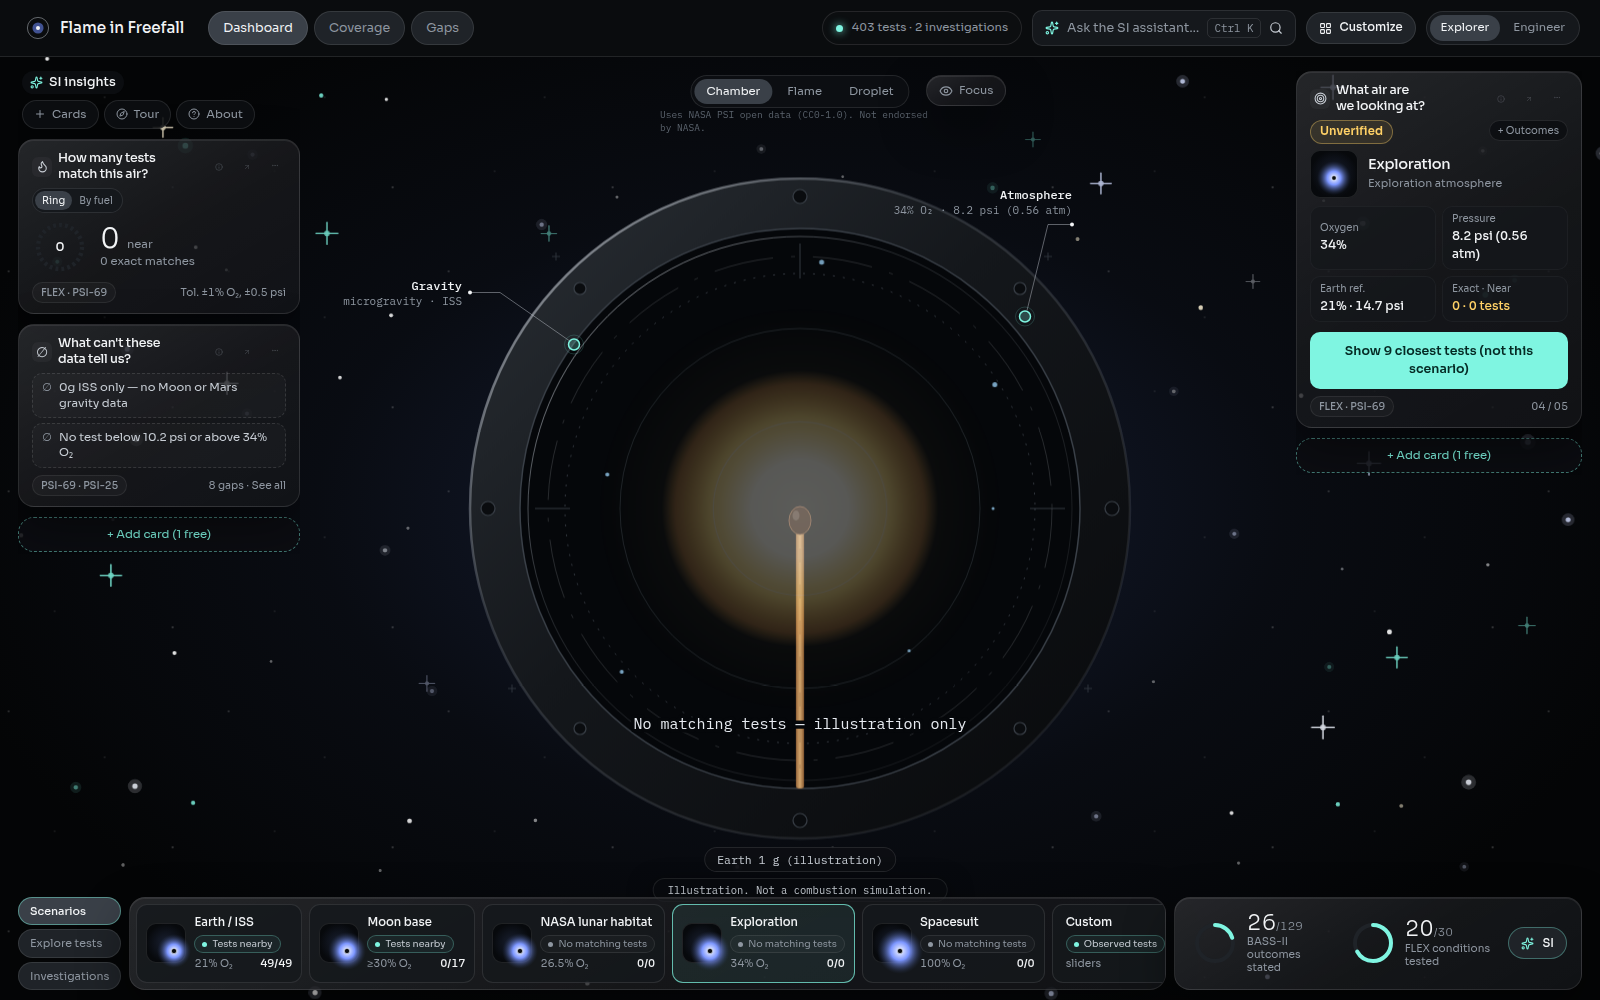
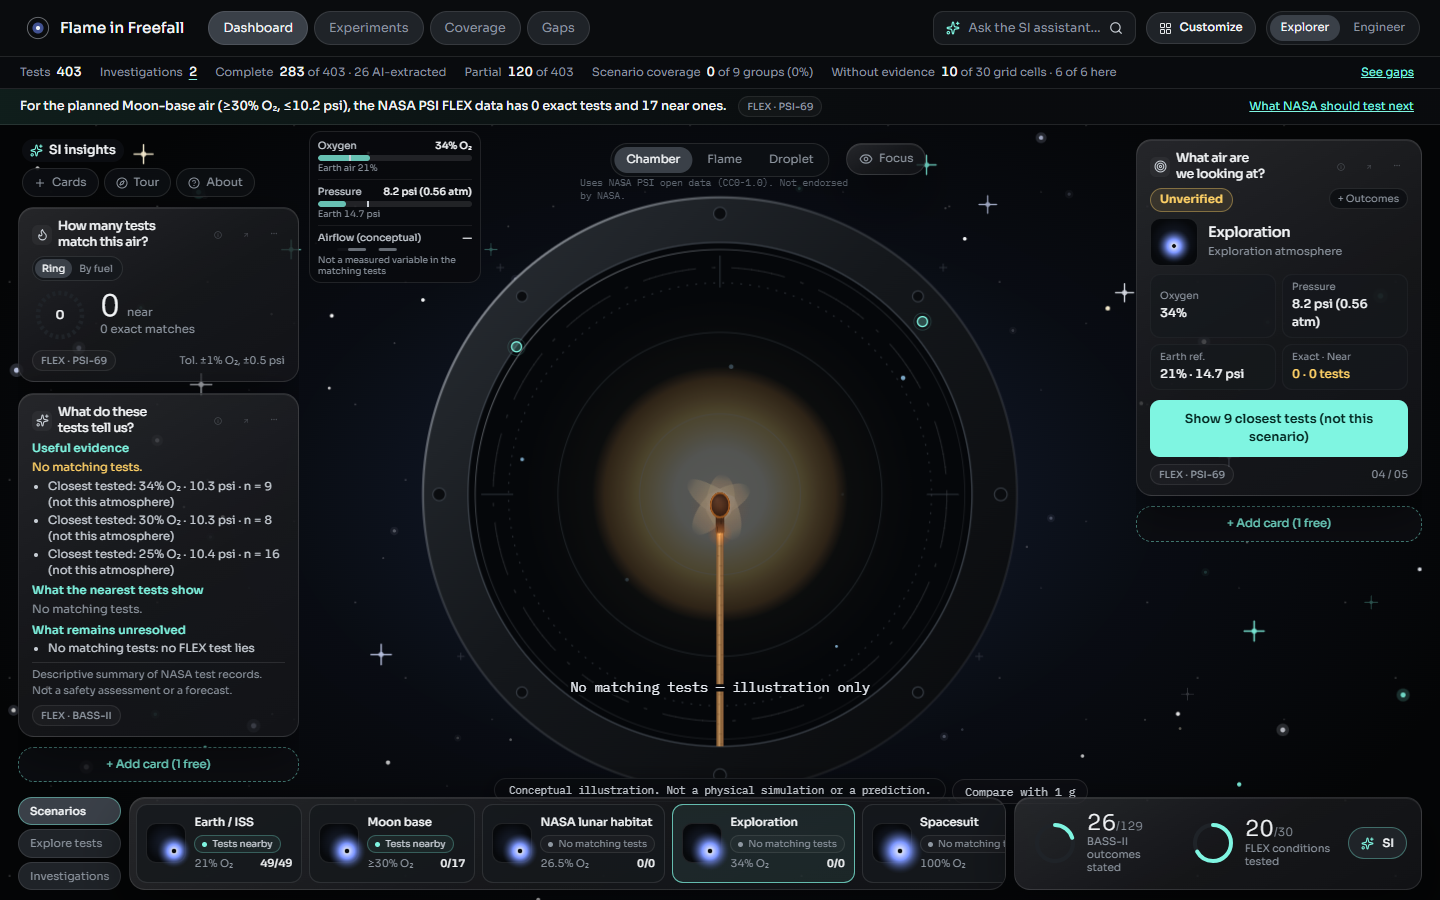
feat(scene): microgravity fire as a luminous sphere with short round-tipped lobes, not a star
- FireTongues: a soft sphere (core, mid, edge of flameLook) plus broad round-tipped lobes in two overlapping
  translucent layers (outer and inner zone), spread all around with small deterministic variations of length,
  width and angle; irregular flicker (different durations, phases and amplitudes; transform and opacity only).
- 1 g reference: a few lobes clustered upward (candle tear-drop), also round-tipped.
- Kept: burning, ember (fainter, 5 lobes), out and none; matchBurn logic; flameLook colours; screen blending;
  no SVG filters; reduced motion = fixed frame; paused when the page is hidden; fewer lobes on a phone.
- FireTongues tests updated to the new design (same properties) plus rounded tips, no upward bias, sphere.
- docs/screenshots/flame-*.png refreshed at 1440x900, and flame-*-390.png added at 390x844.

AI-assisted: yes

diff --git a/frontend/src/components/FlameArt.tsx b/frontend/src/components/FlameArt.tsx
@@ -105,45 +105,87 @@ export interface FireProps {
 }
 const HX = 800, HY = 490;                       // match head centre
 const rr = (i: number, k: number) => { const x = Math.sin(i * 127.1 + k * 311.7) * 43758.5453; return x - Math.floor(x); };
-interface Tongue { rot: number; len: number; w: number; dur: number; delay: number; amp: number }
-/** Microgravity: tongues spread all around the head (short, nearly radial, no tendency to rise). 1 g: clustered upward, longer. */
-export function fireTongues(n: number, oneG: boolean): Tongue[] {
+export type FireLayer = 'outer' | 'inner';
+interface Tongue { rot: number; len: number; w: number; dur: number; delay: number; amp: number; skew: number }
+/**
+ * Lobes of flame around the head. Microgravity: SHORT, BROAD, round-tipped lobes spread all around (no buoyancy, so no
+ * preferred direction), overlapping in an outer and an inner layer like the outer / inner zones of a flame, with small
+ * deterministic variations of length, width and angle so it never reads as a symmetric star. 1 g (reference): a few
+ * long lobes clustered upward, forming the classic candle tear-drop.
+ */
+export function fireTongues(n: number, oneG: boolean, layer: FireLayer = 'outer'): Tongue[] {
+  const k = layer === 'inner' ? 20 : 0;                     // different seeds per layer
+  const off = layer === 'inner' ? 180 / Math.max(1, n) : 0;  // inner lobes sit between the outer ones
   return Array.from({ length: n }, (_, i) => {
-    const rot = oneG ? -38 + (76 * i) / Math.max(1, n - 1) + (rr(i, 1) - 0.5) * 10 : (360 * i) / n + (rr(i, 1) - 0.5) * 24;
-    const len = oneG ? 95 + rr(i, 2) * 70 - Math.abs(rot) * 0.9 : 84 + rr(i, 2) * 60;
-    return { rot, len, w: oneG ? 20 + rr(i, 3) * 8 : 14 + rr(i, 3) * 8, dur: 0.8 + rr(i, 4) * 0.9, delay: -rr(i, 5) * 2, amp: 0.8 + rr(i, 6) * 0.5 };
+    const j = (a: number) => rr(i, a + k);
+    const rot = oneG
+      ? (layer === 'inner' ? -8 : -16) + ((layer === 'inner' ? 16 : 32) * i) / Math.max(1, n - 1) + (j(1) - 0.5) * 6
+      : (360 * i) / n + off + (j(1) - 0.5) * 34;
+    const len = oneG
+      ? (layer === 'inner' ? 70 + j(2) * 22 : 118 + j(2) * 34) - Math.abs(rot) * 0.8
+      : layer === 'inner' ? 62 + j(2) * 18 : 96 + j(2) * 28;     // just past the scene glow (r ≈ 95), never the old long spikes
+    const w = oneG ? (layer === 'inner' ? 15 + j(3) * 5 : 24 + j(3) * 8) : layer === 'inner' ? 27 + j(3) * 9 : 38 + j(3) * 14;
+    return {
+      rot, len, w,
+      dur: (layer === 'inner' ? 0.7 : 1.05) + j(4) * (layer === 'inner' ? 0.8 : 1.3),
+      delay: -j(5) * 3, amp: 0.55 + j(6) * 0.9, skew: (j(7) - 0.5) * w * 0.5,
+    };
   });
 }
-const tonguePath = (L: number, w: number, s: number) => `M${-w} 0 C${-w * 1.3} ${-L * 0.4} ${-w * 0.45 + s} ${-L * 0.72} ${s} ${-L} C${w * 0.45 + s} ${-L * 0.72} ${w * 1.3} ${-L * 0.4} ${w} 0 Z`;
+/** Lobe with a ROUNDED tip (horizontal tangent at the top) and a rounded base. `tip` = how broad the dome is (0.2 candle, 0.6 round). */
+export const lobePath = (L: number, w: number, s: number, tip: number) =>
+  `M${-w} 0 C${-w} ${-L * 0.55} ${-w * tip + s} ${-L} ${s} ${-L} C${w * tip + s} ${-L} ${w} ${-L * 0.55} ${w} 0 C${w * 0.55} ${w * 0.75} ${-w * 0.55} ${w * 0.75} ${-w} 0 Z`;
+/** Lobe counts per layer: fewer on a phone, a faint few as an ember. */
+export function fireCounts(oneG: boolean, phone: boolean, ember: boolean): { outer: number; inner: number } {
+  if (ember) return { outer: 5, inner: 0 };             // 5, not 4: four evenly spaced lobes read as a cross
+  if (oneG) return phone ? { outer: 3, inner: 2 } : { outer: 4, inner: 3 };
+  return phone ? { outer: 5, inner: 3 } : { outer: 7, inner: 5 };
+}
 
 export const FireTongues = memo(function FireTongues({ look, oneG, scale, mode, grayscale, strong, intensity, lifecycle, animated, paused, phone }: FireProps) {
   const ember = mode === 'ember';
   if (mode === 'none' || mode === 'out') return null;
-  const n = ember ? 4 : oneG ? (phone ? 6 : 8) : phone ? 6 : 9;
-  const list = fireTongues(n, oneG);
-  const sc = ember ? scale * 0.26 : oneG ? 1 : scale;
+  const c = fireCounts(oneG, phone, ember);
+  const n = c.outer + c.inner;
+  const outer = fireTongues(c.outer, oneG, 'outer');
+  const inner = fireTongues(c.inner, oneG, 'inner');
+  const sc = ember ? scale * 0.3 : oneG ? 1 : scale;
   const sparkN = ember ? 0 : phone ? 3 : 6;
   const op = ember ? 0.32 : Math.min(0.9, 0.55 + 0.4 * intensity);
+  const tip = oneG ? 0.22 : 0.62;
   const stops = oneG ? ['#FFE9A8', '#FF9A3C', '#D8401A'] : grayscale ? ['#E6E6E6', '#A8A8A8', '#707070'] : [look.core, look.mid, look.edge];
+  const lobe = (t: Tongue, i: number, layer: FireLayer) => (
+    <g key={`${layer}${i}`} transform={`rotate(${t.rot.toFixed(1)})`}>
+      <g className={animated ? `ft fl${layer === 'inner' ? ' fl-in' : ''}` : undefined}
+        style={{ ['--dur' as string]: `${t.dur.toFixed(2)}s`, ['--delay' as string]: `${t.delay.toFixed(2)}s`, ['--amp' as string]: t.amp.toFixed(2) }}>
+        <path d={lobePath(t.len, t.w, t.skew, tip)} fill={layer === 'inner' ? 'url(#fireLobeIn)' : 'url(#fireLobe)'} opacity={layer === 'inner' ? 0.85 : 0.78} />
+      </g>
+    </g>
+  );
   return (
     <g className={`fire${animated && lifecycle && !ember ? ' fire-life' : ''}${paused ? ' fire-paused' : ''}${strong ? ' fire-strong' : ''}`}
       data-fire={oneG ? '1g' : ember ? 'ember' : 'micro'} data-tongues={n} aria-hidden="true" style={{ opacity: op, mixBlendMode: 'screen' }}>
       <defs>
-        <linearGradient id="fireTongue" x1="0" y1="1" x2="0" y2="0">
-          <stop offset="0" stopColor={stops[0]} /><stop offset="0.35" stopColor={stops[0]} stopOpacity="0.95" />
-          <stop offset="0.65" stopColor={stops[1]} stopOpacity="0.85" /><stop offset="1" stopColor={stops[2]} stopOpacity="0.15" />
+        {/* outer zone: from the body colour at the base to a transparent edge at the rounded tip */}
+        <linearGradient id="fireLobe" x1="0" y1="1" x2="0" y2="0">
+          <stop offset="0" stopColor={stops[0]} stopOpacity="0.9" /><stop offset="0.5" stopColor={stops[1]} stopOpacity="0.85" />
+          <stop offset="0.82" stopColor={stops[2]} stopOpacity="0.6" /><stop offset="1" stopColor={stops[2]} stopOpacity="0.05" />
         </linearGradient>
+        {/* inner zone: brighter and hotter, fades sooner */}
+        <linearGradient id="fireLobeIn" x1="0" y1="1" x2="0" y2="0">
+          <stop offset="0" stopColor="#FFFFFF" stopOpacity="0.9" /><stop offset="0.4" stopColor={stops[0]} stopOpacity="0.85" />
+          <stop offset="1" stopColor={stops[1]} stopOpacity="0" />
+        </linearGradient>
+        {/* luminous sphere: core → mid → edge */}
+        <radialGradient id="fireSphere"><stop offset="0" stopColor={stops[0]} /><stop offset="0.3" stopColor={stops[0]} stopOpacity="0.92" />
+          <stop offset="0.65" stopColor={stops[1]} stopOpacity="0.6" /><stop offset="1" stopColor={stops[2]} stopOpacity="0" /></radialGradient>
         <radialGradient id="fireCore"><stop offset="0" stopColor="#FFFFFF" /><stop offset="0.5" stopColor={stops[0]} stopOpacity="0.9" /><stop offset="1" stopColor={stops[1]} stopOpacity="0" /></radialGradient>
       </defs>
       <g transform={`translate(${HX} ${HY}) scale(${sc})`}>
-        {list.map((t, i) => (
-          <g key={i} transform={`rotate(${t.rot.toFixed(1)})`}>
-            <g className={animated ? 'ft' : undefined} style={{ ['--dur' as string]: `${t.dur.toFixed(2)}s`, ['--delay' as string]: `${t.delay.toFixed(2)}s`, ['--amp' as string]: t.amp.toFixed(2) }}>
-              <path d={tonguePath(t.len, t.w, (rr(i, 12) - 0.5) * t.w * 0.7)} fill="url(#fireTongue)" />
-            </g>
-          </g>
-        ))}
-        <circle className={animated ? 'fire-core' : undefined} cx="0" cy={oneG ? -14 : 0} r={oneG ? 22 : 34} fill="url(#fireCore)" />
+        {!oneG && <circle className={animated ? 'fire-sphere' : undefined} cx="0" cy="0" r={ember ? 40 : 58} fill="url(#fireSphere)" data-part="fire-sphere" />}
+        {outer.map((t, i) => lobe(t, i, 'outer'))}
+        {inner.map((t, i) => lobe(t, i, 'inner'))}
+        <circle className={animated ? 'fire-core' : undefined} cx="0" cy={oneG ? -16 : 0} r={oneG ? 20 : 28} fill="url(#fireCore)" />
         {Array.from({ length: sparkN }, (_, i) => {
           const th = oneG ? (-90 + (rr(i, 8) - 0.5) * 60) * Math.PI / 180 : (rr(i, 8) * 360) * Math.PI / 180, d = 90 + rr(i, 9) * 80;
           return <circle key={`s${i}`} className={animated ? 'fire-spark' : undefined} cx={Math.cos(th) * 30} cy={Math.sin(th) * 30} r="1.8" fill="#FFD27A"

diff --git a/frontend/src/components/FireTongues.test.tsx b/frontend/src/components/FireTongues.test.tsx
@@ -1,30 +1,72 @@
 import { render } from '@testing-library/react';
 import { describe, expect, it } from 'vitest';
 import { flameLook } from '../lib/flameLook';
-import { FireTongues, fireTongues, type FireProps } from './FlameArt';
+import { FireTongues, fireCounts, fireTongues, lobePath, type FireProps } from './FlameArt';
 
 const base: FireProps = { look: flameLook(0.21, 14.7), oneG: false, scale: 1, mode: 'burning', grayscale: false, strong: false, intensity: 0.9, lifecycle: true, animated: true, paused: false, phone: false };
+const norm = (r: number) => ((r % 360) + 360) % 360;
 
-describe('fire tongues layer', () => {
-  it('microgravity: tongues spread all around the head (no preferred direction), short', () => {
-    const l = fireTongues(9, false), rots = l.map((t) => ((t.rot % 360) + 360) % 360);
-    expect(Math.max(...rots) - Math.min(...rots)).toBeGreaterThan(250);
-    expect(Math.max(...l.map((t) => t.len))).toBeLessThan(160);
+describe('fire layer (round-tipped lobes, not a star)', () => {
+  it('microgravity: lobes spread all around the head (no preferred direction), short and broad, in both layers', () => {
+    for (const layer of ['outer', 'inner'] as const) {
+      const l = fireTongues(layer === 'outer' ? 7 : 5, false, layer), rots = l.map((t) => norm(t.rot));
+      expect(Math.max(...rots) - Math.min(...rots)).toBeGreaterThan(250);
+      expect(Math.max(...l.map((t) => t.len))).toBeLessThan(130);            // was up to 144 and needle-thin: read as a star
+      expect(Math.min(...l.map((t) => t.w / t.len))).toBeGreaterThan(0.3);   // broad (old spikes were ≈ 0.1–0.25), not needle-like
+    }
+    // no upward bias: the mean direction vector of all lobes is short compared with one lobe
+    const all = [...fireTongues(7, false, 'outer'), ...fireTongues(5, false, 'inner')];
+    const vx = all.reduce((s, t) => s + Math.sin((t.rot * Math.PI) / 180), 0) / all.length;
+    const vy = all.reduce((s, t) => s - Math.cos((t.rot * Math.PI) / 180), 0) / all.length;
+    expect(Math.hypot(vx, vy)).toBeLessThan(0.35);
   });
-  it('1 g reference: tongues cluster upward and are longer', () => {
-    const l = fireTongues(8, true);
+
+  it('microgravity: no star symmetry, lengths, widths and angles vary a little (deterministic)', () => {
+    const l = fireTongues(7, false, 'outer');
+    expect(new Set(l.map((t) => t.len.toFixed(1))).size).toBe(l.length);
+    expect(new Set(l.map((t) => t.w.toFixed(1))).size).toBe(l.length);
+    const gaps = l.map((t, i) => norm(l[(i + 1) % l.length].rot - t.rot));
+    expect(Math.max(...gaps) - Math.min(...gaps)).toBeGreaterThan(5);
+    expect(fireTongues(7, false, 'outer')).toEqual(l);
+  });
+
+  it('every lobe tip is rounded (horizontal tangent at the top), never a sharp point', () => {
+    const d = lobePath(60, 25, 0, 0.62);
+    const m = d.match(/C(-?[\d.]+) (-?[\d.]+) (-?[\d.]+) (-?[\d.]+) (-?[\d.]+) (-?[\d.]+)/)!;
+    expect(Number(m[4])).toBe(Number(m[6]));                                   // control point at the same height as the tip
+    expect(Math.abs(Number(m[3]) - Number(m[5]))).toBeGreaterThan(5);           // and offset sideways: a dome
+  });
+
+  it('1 g reference: lobes cluster upward and are longer (candle tear-drop)', () => {
+    const l = [...fireTongues(4, true, 'outer'), ...fireTongues(3, true, 'inner')];
     expect(l.every((t) => Math.abs(t.rot) <= 45)).toBe(true);
-    expect(Math.max(...l.map((t) => t.len))).toBeGreaterThan(Math.max(...fireTongues(8, false).map((t) => t.len)) * 0.9);
+    expect(Math.max(...l.map((t) => t.len))).toBeGreaterThan(Math.max(...fireTongues(7, false).map((t) => t.len)) * 0.9);
   });
-  it('renders 9 tongues on a desktop, fewer on a phone, 4 faint ones as an ember; nothing when out/none', () => {
+
+  it('renders 12 lobes on a desktop, fewer on a phone, 5 faint ones as an ember; nothing when out/none', () => {
     const n = (p: Partial<FireProps>) => render(<svg><FireTongues {...base} {...p} /></svg>).container.querySelector('[data-tongues]')?.getAttribute('data-tongues') ?? null;
-    expect(n({})).toBe('9'); expect(Number(n({ phone: true }))).toBeLessThan(9); expect(n({ mode: 'ember' })).toBe('4');
+    const c = fireCounts(false, false, false);
+    expect(n({})).toBe(String(c.outer + c.inner)); expect(n({})).toBe('12');
+    expect(Number(n({ phone: true }))).toBeLessThan(12); expect(n({ mode: 'ember' })).toBe('5');
     expect(n({ mode: 'out' })).toBeNull(); expect(n({ mode: 'none' })).toBeNull();
   });
-  it('reduced motion: the tongues stay in a fixed position (no animation classes)', () => {
+
+  it('microgravity draws a luminous sphere; the 1 g reference does not', () => {
+    expect(render(<svg><FireTongues {...base} /></svg>).container.querySelector('[data-part="fire-sphere"]')).not.toBeNull();
+    expect(render(<svg><FireTongues {...base} oneG /></svg>).container.querySelector('[data-part="fire-sphere"]')).toBeNull();
+  });
+
+  it('ember is fainter than a burning flame', () => {
+    const op = (p: Partial<FireProps>) => Number((render(<svg><FireTongues {...base} {...p} /></svg>).container.querySelector('.fire') as SVGElement).style.opacity);
+    expect(op({ mode: 'ember' })).toBeLessThan(op({}));
+  });
+
+  it('reduced motion: the lobes stay in a fixed position (no animation classes)', () => {
     const { container } = render(<svg><FireTongues {...base} animated={false} /></svg>);
     expect(container.querySelector('.ft')).toBeNull(); expect(container.querySelector('.fire-life')).toBeNull();
+    expect(container.querySelector('.fire-sphere')).toBeNull();
   });
+
   it('uses additive-style blending and no filters', () => {
     const { container } = render(<svg><FireTongues {...base} /></svg>);
     expect((container.querySelector('.fire') as SVGElement).style.mixBlendMode).toBe('screen');

diff --git a/frontend/src/design/global.css b/frontend/src/design/global.css
@@ -2410,3 +2410,28 @@ table.inv-table td { vertical-align: top; white-space: normal; }
 .pillar-mini span { color: var(--ink); }
 .ind-num-link { background: none; border: 0; padding: 0; font: inherit; color: inherit; cursor: pointer; text-decoration: underline; text-decoration-color: var(--mint); text-underline-offset: 3px; }
 .ind-num-link:focus-visible { outline: 2px solid var(--mint); outline-offset: 2px; }
+
+/* ---------- fire v2: round-tipped lobes in two overlapping layers + luminous sphere (irregular flicker; transform/opacity only) ---------- */
+.fire .ft.fl { transform-box: fill-box; transform-origin: 50% 85%; animation: fireLobe var(--dur, 1.6s) ease-in-out var(--delay, 0s) infinite alternate; }
+.fire .ft.fl.fl-in { animation-name: fireLobeIn; }
+.fire.fire-strong .ft.fl { animation-name: fireLobeStrong; animation-duration: calc(var(--dur, 1.6s) * 0.6); }
+@keyframes fireLobe {
+  0% { transform: scale(0.94, calc(1 - 0.1 * var(--amp, 1))) rotate(-2deg); opacity: 0.82; }
+  27% { transform: scale(1.03, calc(1 + 0.09 * var(--amp, 1))) rotate(1.5deg); opacity: 1; }
+  52% { transform: scale(0.97, calc(1 - 0.04 * var(--amp, 1))) rotate(-0.5deg); opacity: 0.88; }
+  81% { transform: scale(1.05, calc(1 + 0.13 * var(--amp, 1))) rotate(2.5deg); opacity: 1; }
+  100% { transform: scale(0.96, calc(1 - 0.06 * var(--amp, 1))) rotate(-1deg); opacity: 0.9; }
+}
+@keyframes fireLobeIn {
+  0% { transform: scale(0.9, calc(1 - 0.14 * var(--amp, 1))); opacity: 0.7; }
+  33% { transform: scale(1.06, calc(1 + 0.12 * var(--amp, 1))); opacity: 1; }
+  61% { transform: scale(0.96, 0.95); opacity: 0.78; }
+  100% { transform: scale(1.04, calc(1 + 0.08 * var(--amp, 1))); opacity: 0.95; }
+}
+@keyframes fireLobeStrong {
+  0% { transform: scale(0.85, calc(1 - 0.22 * var(--amp, 1))) rotate(-4deg); opacity: 0.55; }
+  38% { transform: scale(1.08, calc(1 + 0.24 * var(--amp, 1))) rotate(3deg); opacity: 1; }
+  100% { transform: scale(0.9, calc(1 - 0.1 * var(--amp, 1))) rotate(5deg); opacity: 0.7; }
+}
+.fire .fire-sphere { transform-box: fill-box; transform-origin: 50% 50%; animation: fireSphere 2.7s ease-in-out infinite alternate; }
+@keyframes fireSphere { 0% { transform: scale(0.96); opacity: 0.85; } 43% { transform: scale(1.03); opacity: 1; } 100% { transform: scale(0.98); opacity: 0.9; } }
